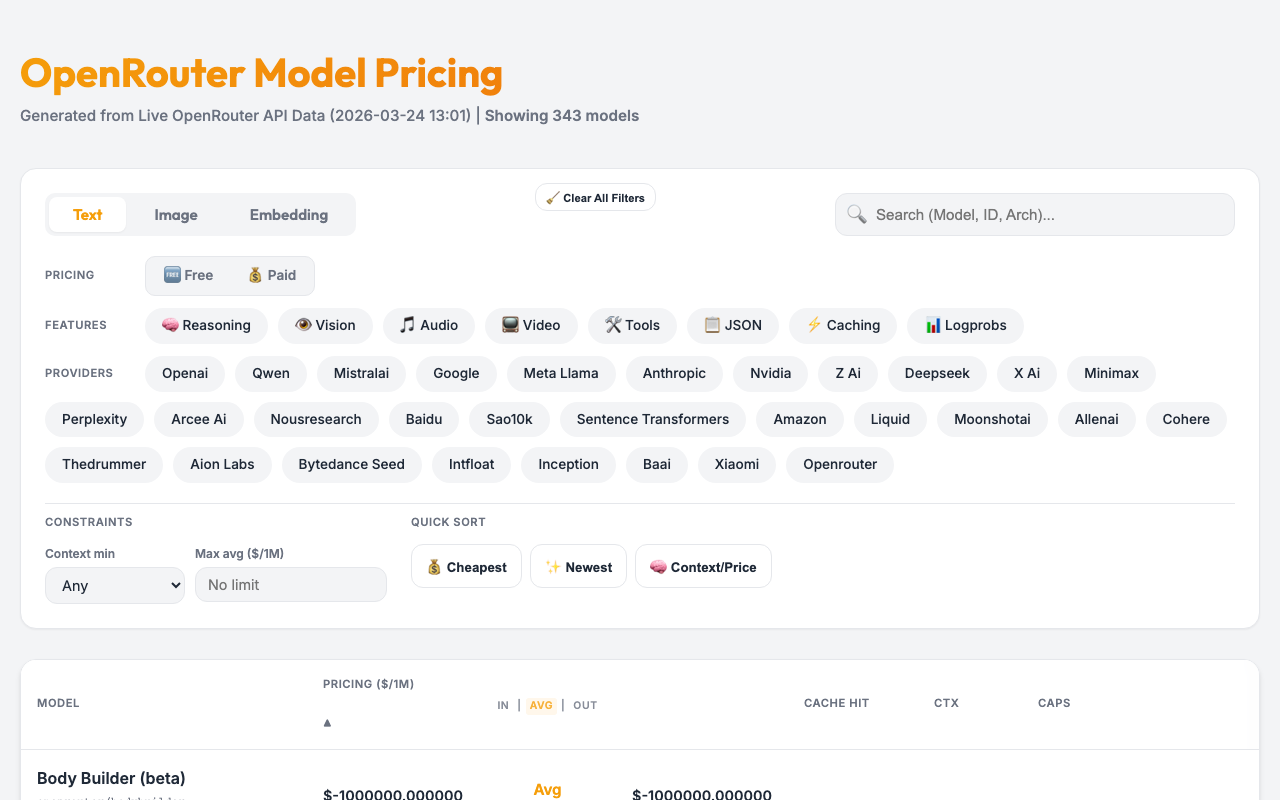
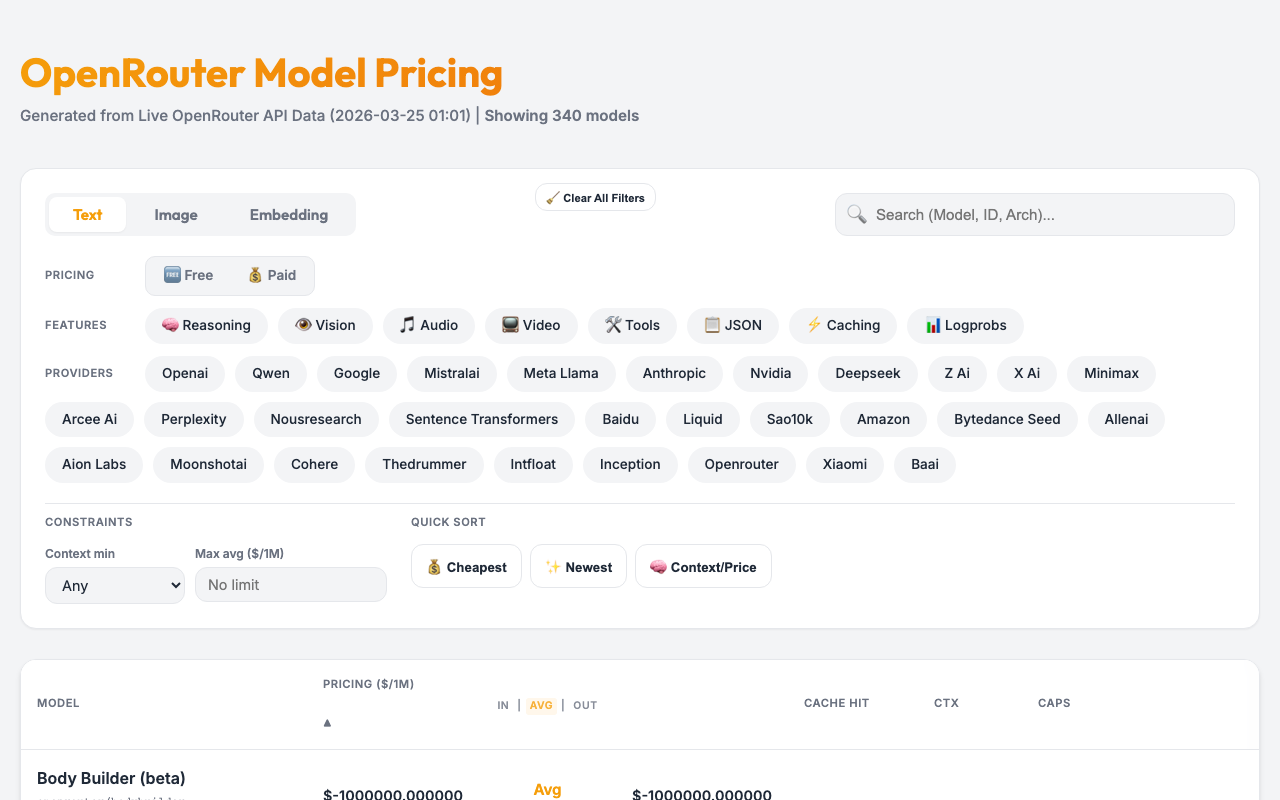
chore: automated pricing update (2026-03-25 01:01:47)
❌ Removed Models (3): meta-llama/llama-3.1-405b, mistralai/pixtral-12b, qwen/qwen-2.5-vl-7b-instruct
🔄 Changed Models (3): deepseek/deepseek-r1, nex-agi/deepseek-v3.1-nex-n1, qwen/qwen3-next-80b-a3b-thinking

diff --git a/docs/index.html b/docs/index.html
@@ -634,7 +634,7 @@
     <div class="container">
         <header>
             <h1>OpenRouter Model Pricing</h1>
-            <div class="meta">Generated from Live OpenRouter API Data (2026-03-24 13:01)</div>
+            <div class="meta">Generated from Live OpenRouter API Data (2026-03-25 01:01)</div>
         </header>
 
         <div class="controls">
@@ -4327,8 +4327,8 @@
         "instruct_type": null
       },
       "pricing": {
-        "prompt": "0.00000027",
-        "completion": "0.000001"
+        "prompt": "0.000000135",
+        "completion": "0.0000005"
       },
       "top_provider": {
         "context_length": 131072,
@@ -7500,9 +7500,7 @@
       "supported_parameters": [
         "frequency_penalty",
         "include_reasoning",
-        "logit_bias",
         "max_tokens",
-        "min_p",
         "presence_penalty",
         "reasoning",
         "repetition_penalty",
@@ -14096,9 +14094,7 @@
       "supported_parameters": [
         "frequency_penalty",
         "include_reasoning",
-        "logit_bias",
         "max_tokens",
-        "min_p",
         "presence_penalty",
         "reasoning",
         "repetition_penalty",
@@ -15538,54 +15534,6 @@
       "expiration_date": null
     },
     {
-      "id": "mistralai/pixtral-12b",
-      "canonical_slug": "mistralai/pixtral-12b",
-      "hugging_face_id": "mistralai/Pixtral-12B-2409",
-      "name": "Mistral: Pixtral 12B",
-      "created": 1725926400,
-      "description": "The first multi-modal, text+image-to-text model from Mistral AI. Its weights were launched via torrent: https://x.com/mistralai/status/1833758285167722836.",
-      "context_length": 32768,
-      "architecture": {
-        "modality": "text+image->text",
-        "input_modalities": [
-          "text",
-          "image"
-        ],
-        "output_modalities": [
-          "text"
-        ],
-        "tokenizer": "Mistral",
-        "instruct_type": null
-      },
-      "pricing": {
-        "prompt": "0.00000010000000000000001",
-        "completion": "0.00000010000000000000001"
-      },
-      "top_provider": {
-        "context_length": 32768,
-        "max_completion_tokens": null,
-        "is_moderated": false
-      },
-      "per_request_limits": null,
-      "supported_parameters": [
-        "frequency_penalty",
-        "logit_bias",
-        "max_tokens",
-        "min_p",
-        "presence_penalty",
-        "repetition_penalty",
-        "seed",
-        "stop",
-        "temperature",
-        "top_k",
-        "top_p"
-      ],
-      "default_parameters": {
-        "temperature": 0.3
-      },
-      "expiration_date": null
-    },
-    {
       "id": "cohere/command-r-08-2024",
       "canonical_slug": "cohere/command-r-08-2024",
       "hugging_face_id": null,
@@ -15719,52 +15667,6 @@
         "temperature",
         "tool_choice",
         "tools",
-        "top_k",
-        "top_p"
-      ],
-      "default_parameters": {},
-      "expiration_date": null
-    },
-    {
-      "id": "qwen/qwen-2.5-vl-7b-instruct",
-      "canonical_slug": "qwen/qwen-2-vl-7b-instruct",
-      "hugging_face_id": "Qwen/Qwen2.5-VL-7B-Instruct",
-      "name": "Qwen: Qwen2.5-VL 7B Instruct",
-      "created": 1724803200,
-      "description": "Qwen2.5 VL 7B is a multimodal LLM from the Qwen Team with the following key enhancements:\n\n- SoTA understanding of images of various resolution & ratio: Qwen2.5-VL achieves state-of-the-art performance on visual understanding benchmarks, including MathVista, DocVQA, RealWorldQA, MTVQA, etc.\n\n- Understanding videos of 20min+: Qwen2.5-VL can understand videos over 20 minutes for high-quality video-based question answering, dialog, content creation, etc.\n\n- Agent that can operate your mobiles, robots, etc.: with the abilities of complex reasoning and decision making, Qwen2.5-VL can be integrated with devices like mobile phones, robots, etc., for automatic operation based on visual environment and text instructions.\n\n- Multilingual Support: to serve global users, besides English and Chinese, Qwen2.5-VL now supports the understanding of texts in different languages inside images, including most European languages, Japanese, Korean, Arabic, Vietnamese, etc.\n\nFor more details, see this [blog post](https://qwenlm.github.io/blog/qwen2-vl/) and [GitHub repo](https://github.com/QwenLM/Qwen2-VL).\n\nUsage of this model is subject to [Tongyi Qianwen LICENSE AGREEMENT](https://huggingface.co/Qwen/Qwen1.5-110B-Chat/blob/main/LICENSE).",
-      "context_length": 32768,
-      "architecture": {
-        "modality": "text+image->text",
-        "input_modalities": [
-          "text",
-          "image"
-        ],
-        "output_modalities": [
-          "text"
-        ],
-        "tokenizer": "Qwen",
-        "instruct_type": null
-      },
-      "pricing": {
-        "prompt": "0.00000020000000000000002",
-        "completion": "0.00000020000000000000002"
-      },
-      "top_provider": {
-        "context_length": 32768,
-        "max_completion_tokens": null,
-        "is_moderated": false
-      },
-      "per_request_limits": null,
-      "supported_parameters": [
-        "frequency_penalty",
-        "logit_bias",
-        "max_tokens",
-        "min_p",
-        "presence_penalty",
-        "repetition_penalty",
-        "seed",
-        "stop",
-        "temperature",
         "top_k",
         "top_p"
       ],
@@ -15996,51 +15898,6 @@
         "top_logprobs",
         "top_p",
         "web_search_options"
-      ],
-      "default_parameters": {},
-      "expiration_date": null
-    },
-    {
-      "id": "meta-llama/llama-3.1-405b",
-      "canonical_slug": "meta-llama/llama-3.1-405b",
-      "hugging_face_id": "meta-llama/llama-3.1-405B",
-      "name": "Meta: Llama 3.1 405B (base)",
-      "created": 1722556800,
-      "description": "Meta's latest class of model (Llama 3.1) launched with a variety of sizes & flavors. This is the base 405B pre-trained version.\n\nIt has demonstrated strong performance compared to leading closed-source models in human evaluations.\n\nTo read more about the model release, [click here](https://ai.meta.com/blog/meta-llama-3/). Usage of this model is subject to [Meta's Acceptable Use Policy](https://llama.meta.com/llama3/use-policy/).",
-      "context_length": 32768,
-      "architecture": {
-        "modality": "text->text",
-        "input_modalities": [
-          "text"
-        ],
-        "output_modalities": [
-          "text"
-        ],
-        "tokenizer": "Llama3",
-        "instruct_type": "none"
-      },
-      "pricing": {
-        "prompt": "0.000004",
-        "completion": "0.000004"
-      },
-      "top_provider": {
-        "context_length": 32768,
-        "max_completion_tokens": 32768,
-        "is_moderated": false
-      },
-      "per_request_limits": null,
-      "supported_parameters": [
-        "frequency_penalty",
-        "logit_bias",
-        "max_tokens",
-        "min_p",
-        "presence_penalty",
-        "repetition_penalty",
-        "seed",
-        "stop",
-        "temperature",
-        "top_k",
-        "top_p"
       ],
       "default_parameters": {},
       "expiration_date": null
@@ -19154,7 +19011,7 @@
   ],
   "other": []
 };
-        window.providerOptions = ['openai', 'qwen', 'mistralai', 'google', 'meta-llama', 'anthropic', 'nvidia', 'z-ai', 'deepseek', 'x-ai', 'minimax', 'perplexity', 'arcee-ai', 'nousresearch', 'baidu', 'sao10k', 'sentence-transformers', 'amazon', 'liquid', 'moonshotai', 'allenai', 'cohere', 'thedrummer', 'aion-labs', 'bytedance-seed', 'intfloat', 'inception', 'baai', 'xiaomi', 'openrouter', 'relace', 'morph', 'microsoft', 'inflection', 'stepfun', 'thenlper', 'essentialai', 'ai21', 'deepcogito', 'gryphe', 'writer', 'upstage', 'alpindale', 'alfredpros', 'tngtech', 'prime-intellect', 'tencent', 'ibm-granite', 'nex-agi', 'alibaba', 'mancer', 'undi95', 'meituan', 'kwaipilot', 'bytedance', 'switchpoint', 'anthracite-org', 'cognitivecomputations', 'eleutherai'];
+        window.providerOptions = ['openai', 'qwen', 'google', 'mistralai', 'meta-llama', 'anthropic', 'nvidia', 'deepseek', 'z-ai', 'x-ai', 'minimax', 'arcee-ai', 'perplexity', 'nousresearch', 'sentence-transformers', 'baidu', 'liquid', 'sao10k', 'amazon', 'bytedance-seed', 'allenai', 'aion-labs', 'moonshotai', 'cohere', 'thedrummer', 'intfloat', 'inception', 'openrouter', 'xiaomi', 'baai', 'morph', 'relace', 'microsoft', 'thenlper', 'stepfun', 'inflection', 'mancer', 'upstage', 'prime-intellect', 'alibaba', 'gryphe', 'undi95', 'ibm-granite', 'nex-agi', 'meituan', 'alfredpros', 'bytedance', 'alpindale', 'switchpoint', 'anthracite-org', 'deepcogito', 'kwaipilot', 'essentialai', 'eleutherai', 'tngtech', 'writer', 'ai21', 'cognitivecomputations', 'tencent'];
         let currentTab = 'text';
         let sortKey = 'price_avg';
         let sortAsc = true;
